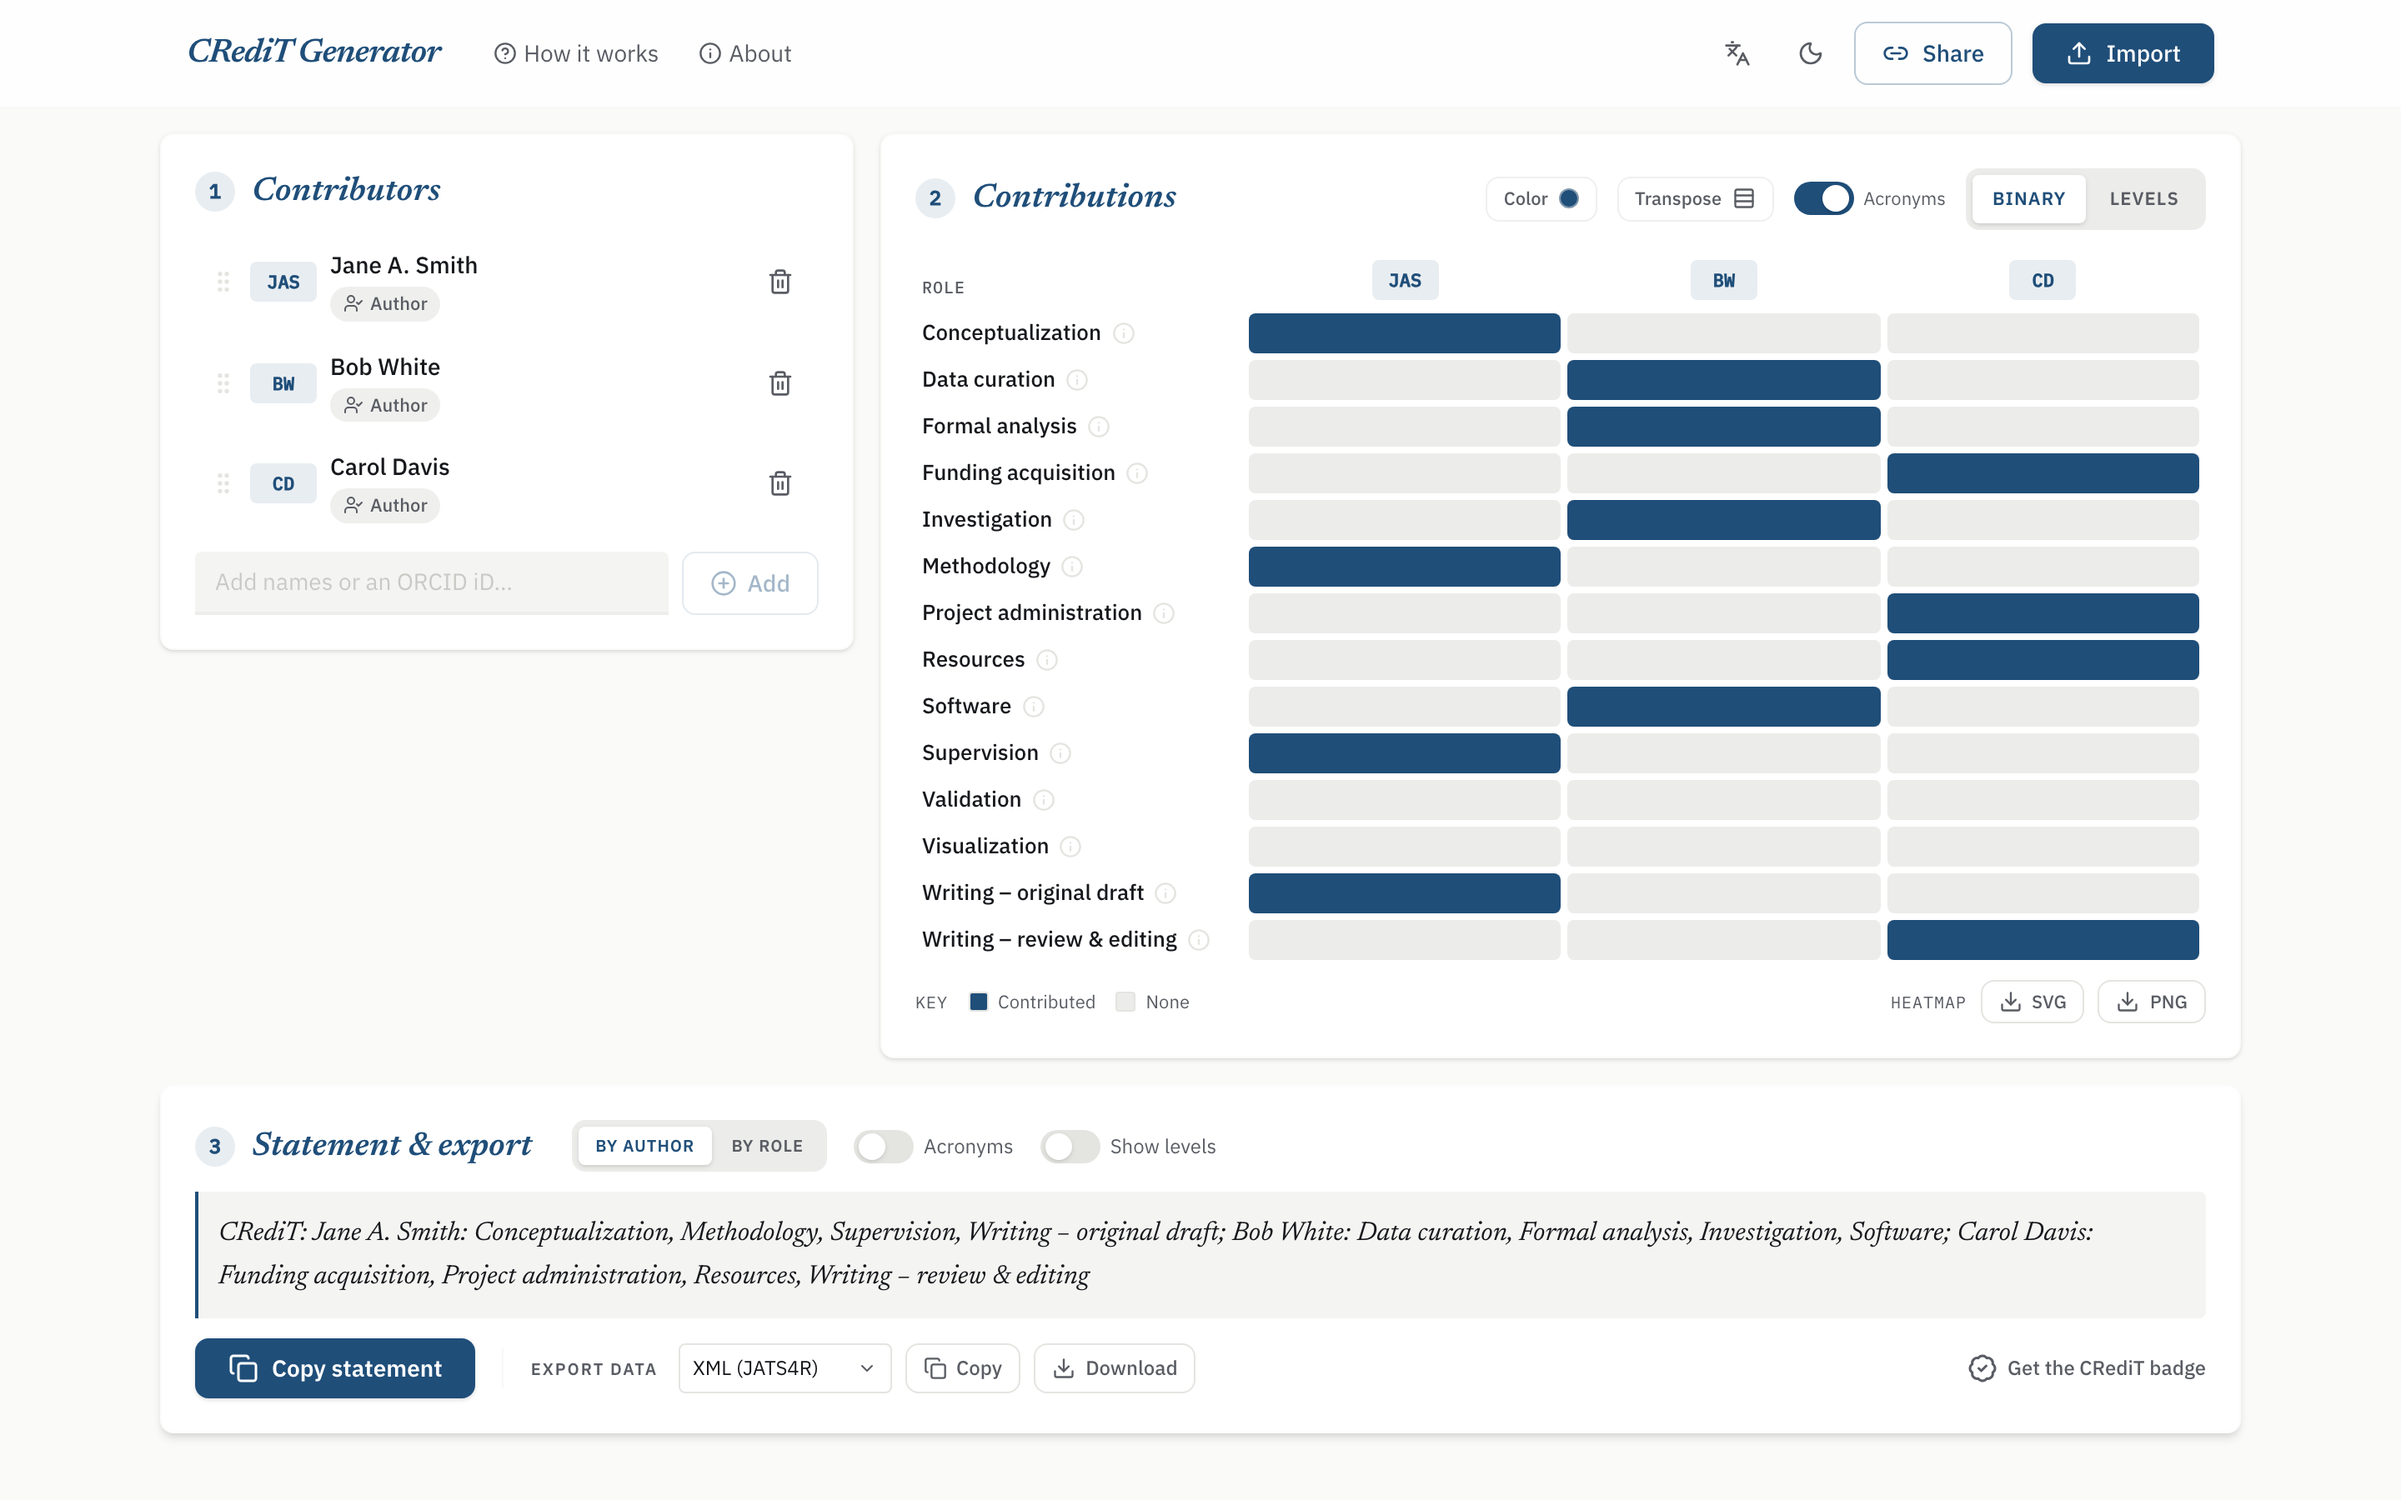
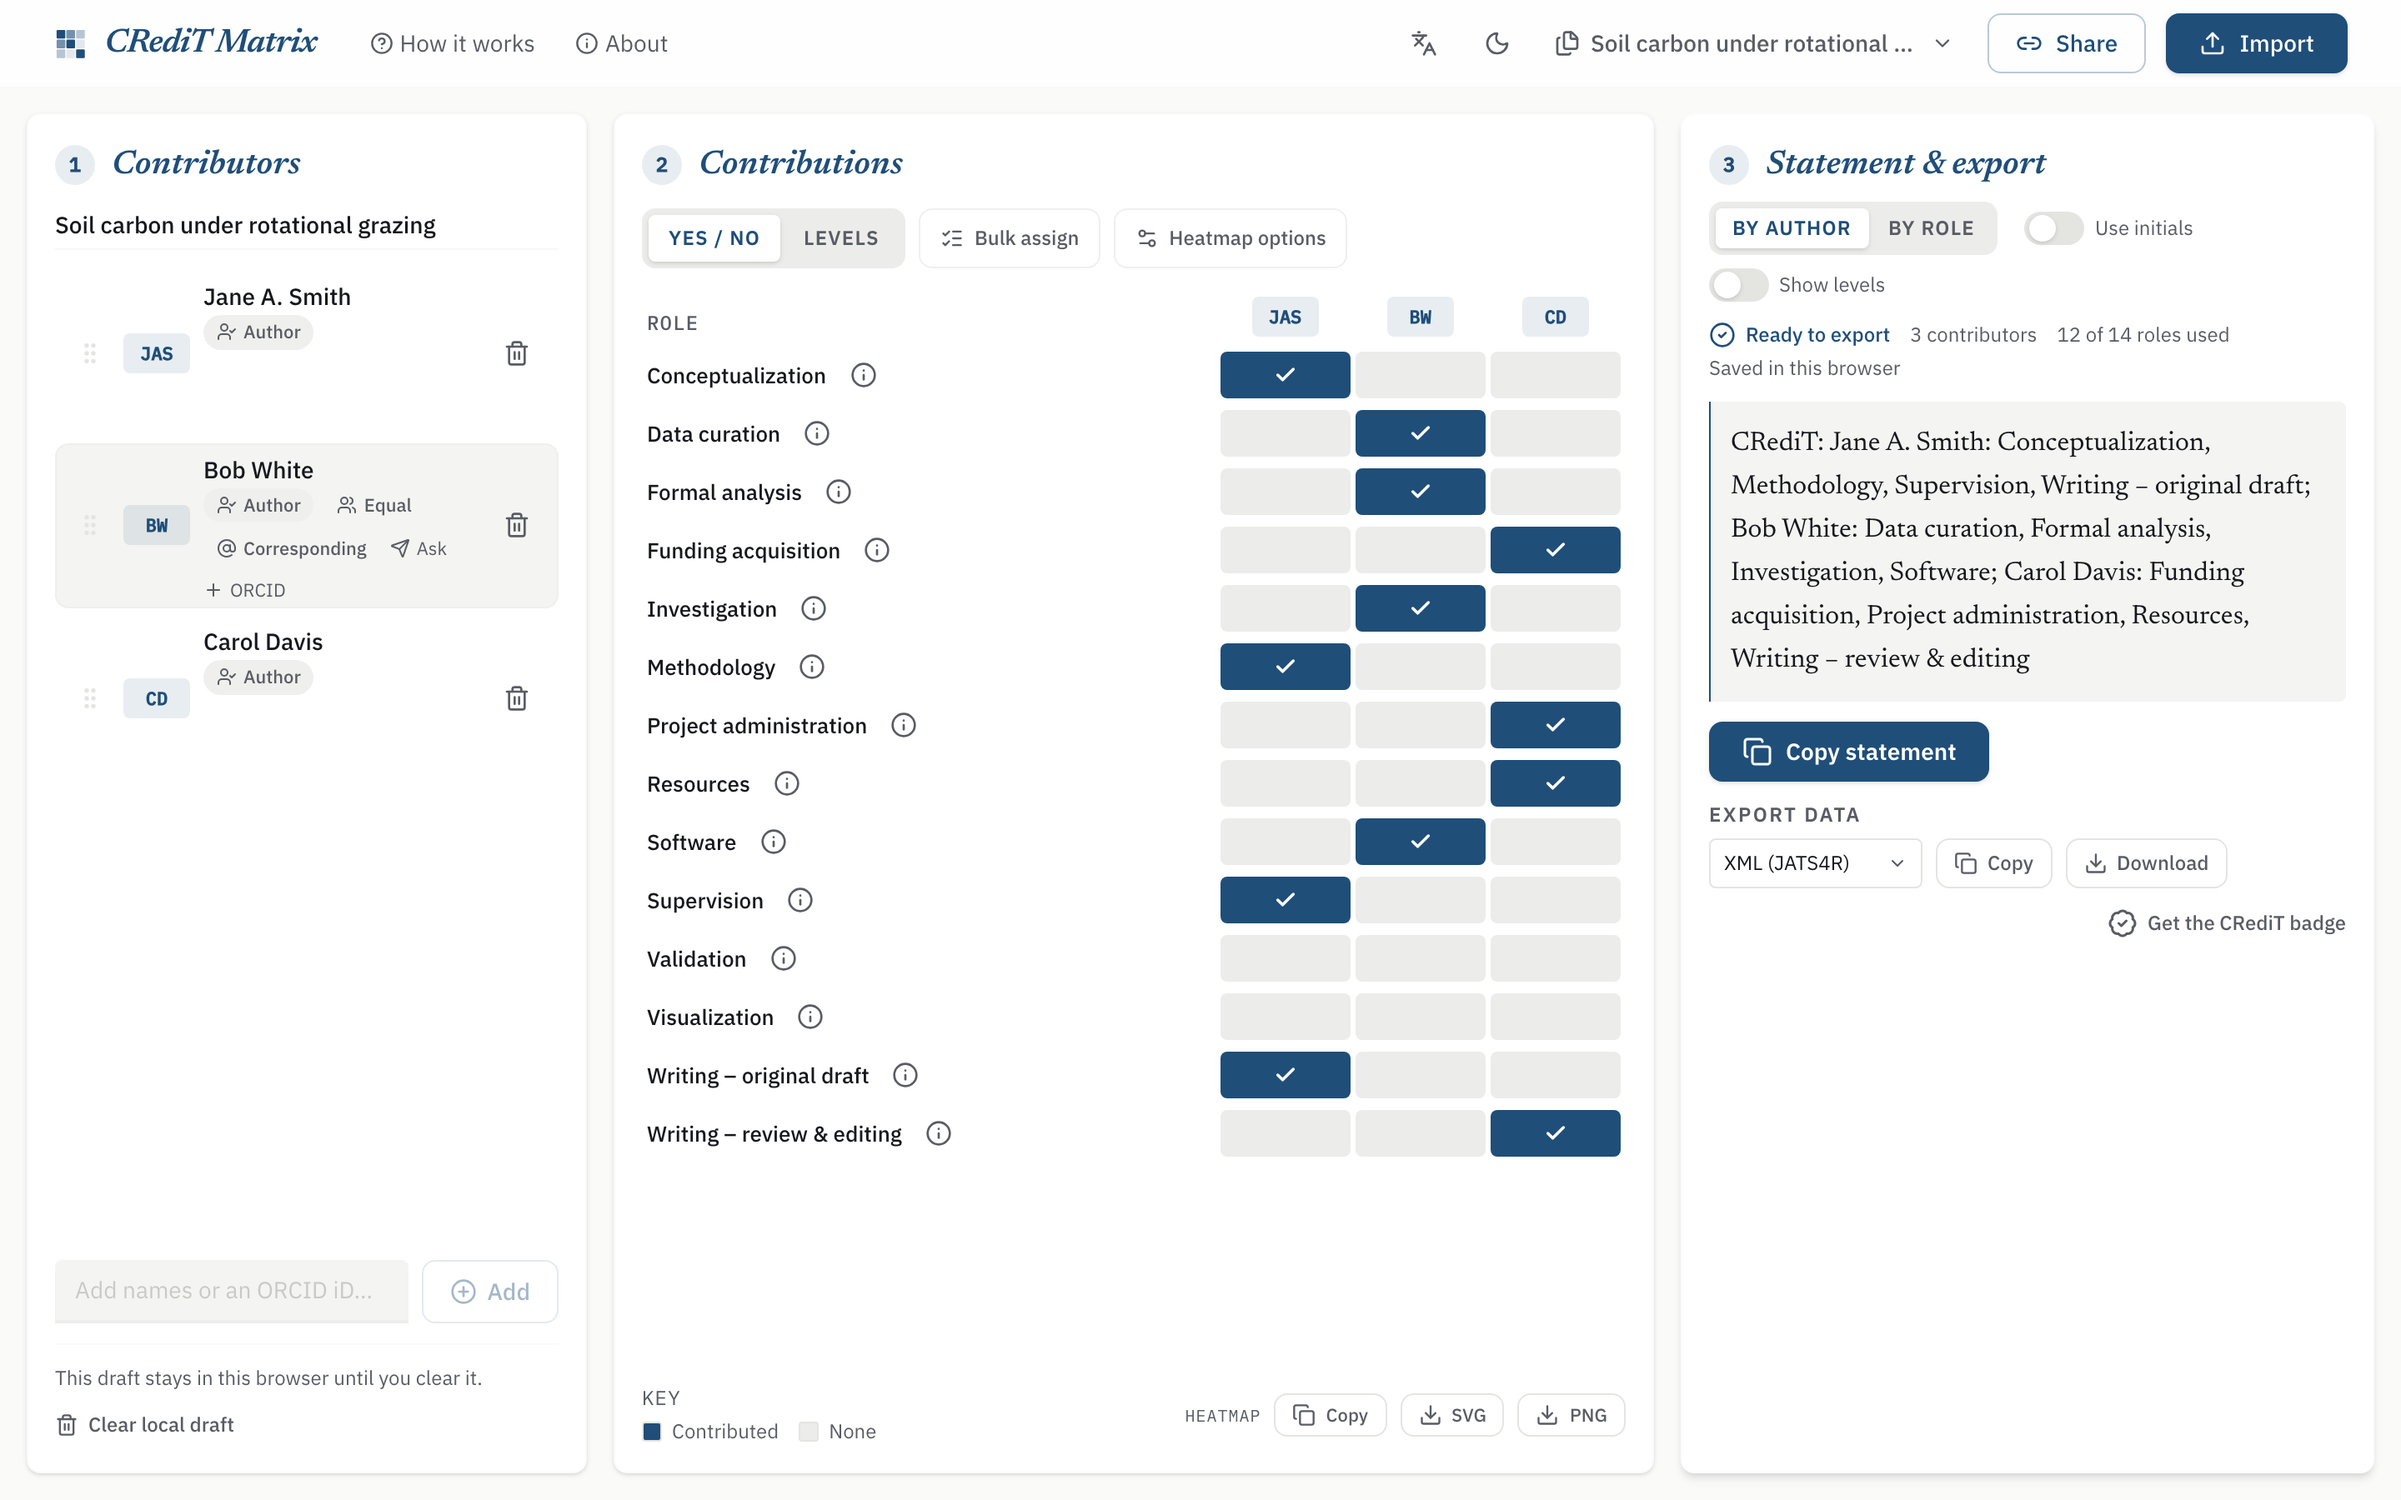
docs: record the new features, and refresh the screenshots
- turn off noSecrets for src/components: every t("someLongKeyName") call reads
  as a high-entropy string, which was failing the lint job
- write the unreleased changelog entries, including the rate-limiter binding
  rename that leaves both proxies unthrottled if a deploy misses it
- note that binding in the self-hosting section
- move the work's title out of the drafts popover into the contributors pane,
  where it is visible while editing
- recapture all three screenshots: they predated the drafts picker, the title
  field, and the DOI import

diff --git a/src/components/DraftPicker.tsx b/src/components/DraftPicker.tsx
@@ -32,7 +32,6 @@ export function DraftPicker() {
   const activeDraftId = useContributionStore((s) => s.activeDraftId);
   const title = useContributionStore((s) => s.title);
   const authors = useContributionStore((s) => s.authors);
-  const setTitle = useContributionStore((s) => s.setTitle);
   const createDraft = useContributionStore((s) => s.createDraft);
   const switchDraft = useContributionStore((s) => s.switchDraft);
   const duplicateDraft = useContributionStore((s) => s.duplicateDraft);
@@ -102,22 +101,6 @@ export function DraftPicker() {
         </button>
       </PopoverTrigger>
       <PopoverContent align="start" className="w-80 max-w-[calc(100vw-1.5rem)] p-0">
-        <div className="border-b border-outline-variant/20 px-4 py-3">
-          <label
-            htmlFor="draft-title"
-            className="block text-xs font-bold uppercase tracking-widest text-on-surface-variant"
-          >
-            {t("draftTitleLabel")}
-          </label>
-          <input
-            id="draft-title"
-            value={title}
-            onChange={(event) => setTitle(event.target.value)}
-            placeholder={t("untitledDraft")}
-            className="mt-1 w-full bg-transparent text-sm text-on-surface outline-none placeholder:text-on-surface-variant/60"
-          />
-        </div>
-
         <ul className="max-h-64 overflow-y-auto py-1">
           {rows.map((draft) => (
             <li key={draft.id} className="group flex items-center gap-1 px-2">

diff --git a/src/components/steps/AuthorInput.tsx b/src/components/steps/AuthorInput.tsx
@@ -158,6 +158,8 @@ export function AuthorList() {
     removeAuthor,
     reset,
     restoreAuthor,
+    setTitle,
+    title,
     updateAuthorName,
     welcomeOpen,
     welcomeSeen,
@@ -389,6 +391,19 @@ export function AuthorList() {
   return (
     <div className="flex flex-col bg-surface-bright rounded-lg shadow-sm border border-outline-variant/20 p-3 md:p-4 desk:h-full desk:overflow-y-auto">
       <StepHeader n={1} title={t("stepContributors")} className="mb-3" />
+
+      {/* The work's title. Quiet by design — it is optional, it names the draft
+          in the picker, and a DOI import fills it in. */}
+      <label htmlFor="work-title" className="sr-only">
+        {t("draftTitleLabel")}
+      </label>
+      <input
+        id="work-title"
+        value={title}
+        onChange={(event) => setTitle(event.target.value)}
+        placeholder={t("untitledDraft")}
+        className="mb-3 w-full border-b border-outline-variant/30 bg-transparent pb-1 text-sm font-medium text-on-surface outline-none transition-colors placeholder:font-normal placeholder:text-on-surface-variant/60 focus:border-primary"
+      />
 
       {authors.length === 0 && !welcomeOpen && (
         <div className="rounded-lg border border-dashed border-outline-variant/40 bg-surface-container-low/40 p-6 text-center">

diff --git a/e2e/happy-path.spec.ts b/e2e/happy-path.spec.ts
@@ -330,9 +330,10 @@ test.describe("Happy path UI flows", () => {
     await page.getByRole("button", { name: "Load sample data" }).click();
     await expect(page.getByRole("button", { name: /^Remove / })).toHaveCount(3);
 
+    // The title lives in the workspace; the picker lists the drafts by it.
+    await page.getByLabel("Draft title").fill("First paper");
     const picker = page.getByRole("button", { name: /^Drafts:/ });
     await picker.click();
-    await page.getByLabel("Draft title").fill("First paper");
     await page.getByRole("button", { name: "New draft" }).click();
 
     // The new draft is empty; the first one is untouched behind it.

diff --git a/src/components/steps/ContributionGrid.tsx b/src/components/steps/ContributionGrid.tsx
@@ -292,7 +292,6 @@ export function ContributionGrid() {
                 </Select>
                 <div className="grid grid-cols-2 gap-2">
                   <BulkButton onClick={() => setRoleScores(parsedBulkRoleIndex, assignScore)}>
-                    {/* biome-ignore lint/security/noSecrets: a message key, not a credential. */}
                     {t("bulkAssignToAll")}
                   </BulkButton>
                   <BulkButton onClick={() => setRoleScores(parsedBulkRoleIndex, 0)}>{t("bulkClearRole")}</BulkButton>

diff --git a/src/components/ui/segmented.tsx b/src/components/ui/segmented.tsx
@@ -45,7 +45,6 @@ export function SegmentedControl<T extends string>({
     if (!next) return;
     onChange(next.value);
     // Roving tabindex: move focus to the newly selected radio.
-    // biome-ignore lint/security/noSecrets: this is a CSS attribute selector, not a credential.
     groupRef.current?.querySelectorAll<HTMLButtonElement>('[role="radio"]')[nextIndex]?.focus();
   }
 

diff --git a/CHANGELOG.md b/CHANGELOG.md
@@ -11,6 +11,36 @@ adheres to [Semantic Versioning](https://semver.org/spec/v2.0.0.html).
 - Offline support: a service worker caches the app's own files, so a draft survives a lost
   connection, and a web app manifest makes it installable. The ORCID lookup is the one path that
   still needs a network, and now says so.
+- DOI import: paste a DOI to fill the contributor list, their ORCID iDs, and the work's title from
+  the published record, through a new `/api/doi` proxy to Crossref. Roles stay empty, because
+  published records do not carry them.
+- Drafts, one per paper. A picker in the header switches, renames, duplicates, and deletes them, up
+  to fifty. They live in this browser, as everything else does.
+- Collecting contributions from co-authors: send each person a link addressed to their own row.
+  They tick what they did and send the same link back; importing it takes that row alone and
+  discards anything they changed about anyone else.
+- Shared first authorship and corresponding authors, which CRediT has no term for. They are noted
+  under the statement and the Markdown table, carried as columns in CSV, and written as JATS4R
+  `equal-contrib` and `corresp` attributes.
+- Rich-text copy: the statement now goes to the clipboard as HTML alongside plain text, so pasting
+  into a word processor keeps the emphasis on each label. Editors that want plain text still get it.
+- A unit test layer for the app itself (Vitest on jsdom), covering the store and the `src/lib`
+  helpers. The domain package and the Playwright suite already had their own.
+
+### Changed
+
+- Share links encode contributions positionally instead of repeating all fourteen role names per
+  contributor. A ten-author link falls from roughly 18 kB to 1.4 kB, which is the difference
+  between a link that survives an email client and one that does not. Older links still open.
+- One rate limiter now covers both upstream proxies, so the Worker binding is `API_RATE_LIMITER`
+  rather than `ORCID_RATE_LIMITER`. **A deploy that does not rename it leaves both proxies
+  unthrottled**, which is logged but does not fail the request.
+- The persisted draft is stored as a map of drafts rather than a single workspace.
+
+### Fixed
+
+- Renaming a contributor no longer clears the authorship markers set on them. Every mutation
+  rebuilds the contributor through `createAuthor`, and two rebuild sites were dropping the fields.
 
 ## [0.3.0] - 2026-08-26
 

diff --git a/README.md b/README.md
@@ -18,7 +18,7 @@ CRediT Matrix is an independent project. It is not affiliated with or endorsed b
 
 **Try it:** [credit.duinlab.nl](https://credit.duinlab.nl)
 
-![The CRediT Matrix workspace: a contributors list beside an editable contribution grid, with the generated statement and export controls below](docs/screenshots/hero.png)
+![The CRediT Matrix workspace: a titled draft with its contributors on the left, one row hovered to show its authorship markers and the button that asks that person to fill in their own roles, an editable contribution grid in the middle, and the generated statement with export controls on the right](docs/screenshots/hero.png)
 
 ## What it does
 
@@ -118,6 +118,11 @@ To run the Worker yourself, set your own domain and bindings in
 pnpm preview        # build + run the Worker locally
 pnpm deploy         # build + deploy to your Cloudflare account
 ```
+
+Both upstream proxies (`/api/orcid`, `/api/doi`) share one rate-limiter binding, `API_RATE_LIMITER`.
+If it is missing, they fail open: the lookups keep working, unthrottled, and say so once in the
+invocation log. After changing the binding, check the first deploy's logs for
+`API_RATE_LIMITER binding missing`.
 
 ## Roadmap
 
